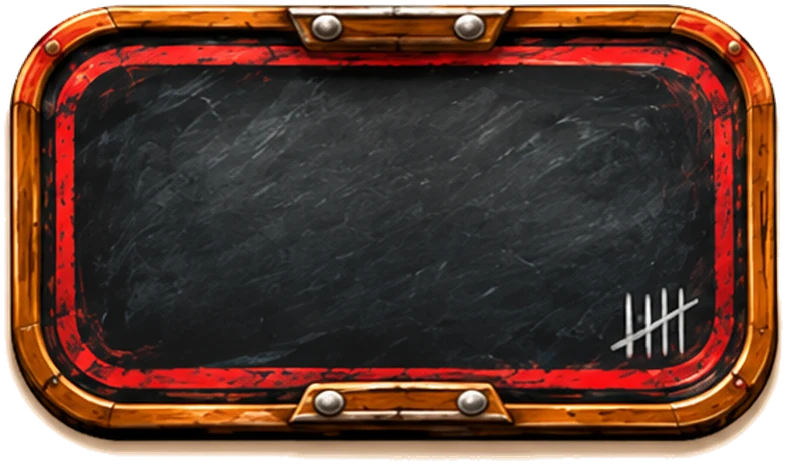
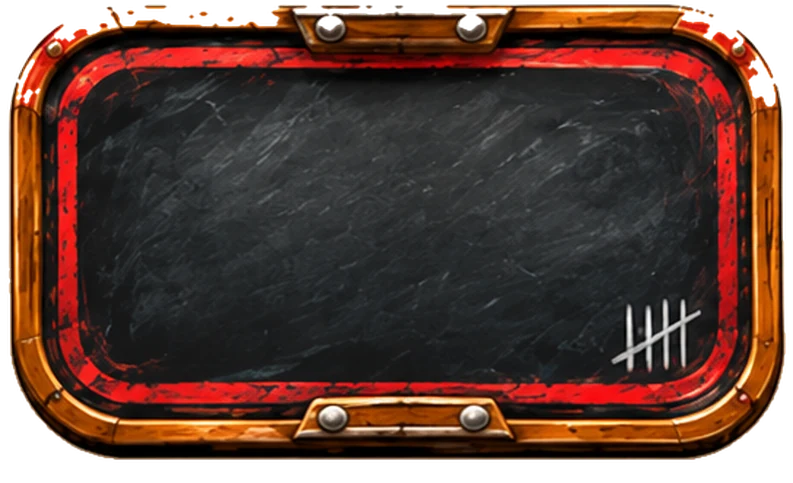
Craie : détourage serré (pilules découpées sur leur forme exacte, ombres portées dessinées retirées) (lf-353)
Claude-Session: https://claude.ai/code/session_01Agff8va3qxXu2Vw43sb54j

diff --git a/index.html b/index.html
@@ -3563,7 +3563,7 @@ html body #hist #hBody .h2last small{font:400 11px "Lbl",sans-serif;color:var(--
 /* ===== habillage « Craie » (Cricket 1 contre 1 ; clé interne « casino ») : images dessinées par Loubi, découpées depuis sa planche ; « Base » = rendu normal ===== */
 html body.skin-casino #game#game#game#game.p2 .sc.act{background:transparent!important;box-shadow:none!important}
 html body.skin-casino #game#game#game#game.p2 .sc.act::after{opacity:0!important}
-html body.skin-casino #game#game#game#game.p2 .sc.act::before{content:'';position:absolute;inset:-6.4px -7.8px -7.3px -6.9px;background:url(skins/craie/carte.webp) 0 0/100% 100% no-repeat;z-index:-1;pointer-events:none}
+html body.skin-casino #game#game#game#game.p2 .sc.act::before{content:'';position:absolute;inset:-6.9px -8.4px -12.8px -8.4px;background:url(skins/craie/carte.webp) 0 0/100% 100% no-repeat;z-index:-1;pointer-events:none}
 html body.skin-casino #game#game#game#game.p2 .sc .pill:not(.undo){background:transparent 0 0/100% 100% no-repeat!important;box-shadow:none!important;opacity:1!important;border-color:transparent!important;position:relative;isolation:isolate}
 html body.skin-casino #game#game#game#game.p2 .sc .pill:not(.undo)::before{content:'';position:absolute;inset:-3px -5px;background:inherit;background-size:100% 100%!important;z-index:-1;pointer-events:none}
 html body.skin-casino #game#game#game#game.p2 .sc:not(.act) .pill:not(.undo)::before{inset:-2px -3px}
@@ -3577,15 +3577,15 @@ html body.skin-casino #game#game#game#game.p2 .sc:not(.act) .pill.d{background-i
 html body.skin-casino #game#game#game#game.p2 .sc:not(.act) .pill.t{background-image:url(skins/craie/pa_t.webp)!important}
 html body.skin-casino #game#game#game#game.p2 .sc:not(.act) .pill.e,html body.skin-casino #game#game#game#game.p2 .sc:not(.act) .pill.z{background-image:url(skins/craie/pa_z.webp)!important}
 html body.skin-casino #game#game#game#game.p2 .rtrackb{border-color:transparent!important;background:none!important;z-index:0!important}
-html body.skin-casino #game#game#game#game.p2 .rtrackb::before{content:'';position:absolute;inset:-1.6px -2.4px -1.6px -3.2px;background:url(skins/craie/rail.webp) 0 0/100% 100% no-repeat;pointer-events:none}
+html body.skin-casino #game#game#game#game.p2 .rtrackb::before{content:'';position:absolute;inset:-2.2px -3.4px -4.7px -4.3px;background:url(skins/craie/rail.webp) 0 0/100% 100% no-repeat;pointer-events:none}
 html body.skin-casino #game#game#game#game.p2 #grid .num{background:transparent!important;box-shadow:none!important}
-html body.skin-casino #game#game#game#game.p2 #grid .num{border-style:solid!important;border-width:0!important;border-image:url(skins/craie/num.webp) 0 99 fill / 0 calc(var(--r,52.6px)*0.628) / calc(var(--r,52.6px)*0.128) calc(var(--r,52.6px)*0.163) stretch!important}   /* débord proportionnel à la hauteur de ligne (--r) */
+html body.skin-casino #game#game#game#game.p2 #grid .num{border-style:solid!important;border-width:0!important;border-image:url(skins/craie/num.webp) 0 106 fill / 0 calc(var(--r,52.6px)*0.673) / calc(var(--r,52.6px)*0.173) calc(var(--r,52.6px)*0.182) stretch!important}   /* débord proportionnel à la hauteur de ligne (--r) */
 html body.skin-casino #game#game#game#game.p2 #grid .num.dead{border-image-source:url(skins/craie/num_mort.webp)!important}
 html body.skin-casino #game#game#game#game.p2 #grid .num.bnc{border-image:none!important}
-html body.skin-casino #game#game#game#game.p2 footer::after{border-color:transparent!important;background:url(skins/craie/barre.webp) 0 0/100% 100% no-repeat!important;z-index:0!important;inset:-2.2px -3.9px -2.2px -3.9px!important}
+html body.skin-casino #game#game#game#game.p2 footer::after{border-color:transparent!important;background:url(skins/craie/barre.webp) 0 0/100% 100% no-repeat!important;z-index:0!important;inset:-2.3px -5.1px -6.0px -5.6px!important}
 html body.skin-casino #game#game#game#game.p2 .fthumb{background:transparent!important;box-shadow:none!important}
-html body.skin-casino #game#game#game#game.p2 .fthumb{border-style:solid!important;border-width:0!important;border-image:url(skins/craie/curseur.webp) 0 117 fill / 0 calc(var(--th,63.5px)*0.615) / calc(var(--th,63.5px)*0.115) calc(var(--th,63.5px)*.06) stretch!important}   /* curseur : bouts ronds jamais déformés, quelle que soit sa largeur (Double / Spew / Triple) */
-html body.skin-casino.m2 #game#game#game#game.p2 .fthumb{border-image-outset:calc(var(--th,63.5px)*0.115) 23px calc(var(--th,63.5px)*0.115) 0!important}   /* en Double, la boîte du curseur est 11 pt à gauche du mot « Double » : on recentre la bulle sur le mot */
+html body.skin-casino #game#game#game#game.p2 .fthumb{border-style:solid!important;border-width:0!important;border-image:url(skins/craie/curseur.webp) 0 125 fill / 0 calc(var(--th,63.5px)*0.660) / calc(var(--th,63.5px)*0.118) calc(var(--th,63.5px)*.06) stretch!important}   /* curseur : bouts ronds jamais déformés, quelle que soit sa largeur (Double / Spew / Triple) */
+html body.skin-casino.m2 #game#game#game#game.p2 .fthumb{border-image-outset:calc(var(--th,63.5px)*0.118) 23px calc(var(--th,63.5px)*0.118) 0!important}   /* en Double, la boîte du curseur est 11 pt à gauche du mot « Double » : on recentre la bulle sur le mot */
 html body.skin-casino #game#game#game#game.p2 .mw{position:relative;isolation:isolate}
 html body.skin-casino #game#game#game#game.p2 .mw .disc{opacity:0!important}
 html body.skin-casino #game#game#game#game.p2 .mw.k3::before{content:'';position:absolute;left:21%;top:21%;width:58%;height:58%;background:url(skins/craie/disque.webp) center/contain no-repeat;z-index:-1;animation:skpop .28s cubic-bezier(.3,1.6,.5,1)}
@@ -7114,7 +7114,7 @@ $('grid').addEventListener('click',e=>{if(!BARC)return;e.stopImmediatePropagatio
 /* ===== thème : 3 réglages de couleur (fond, contours et textes, bulles) ===== */
 /* thème unique (Bulle d'origine) : on efface les anciens réglages de couleurs et de style */
 if(S.th||S.style||S.pfT||S.pfN||S.pst){['th','style','pfT','pfN','pst'].forEach(k=>delete S[k]);try{store.set(K_S,S)}catch(e){}}
-const APPV='lf-352';   // à changer avec VERSION dans sw.js
+const APPV='lf-353';   // à changer avec VERSION dans sw.js
 ['--m-bg','--m-card','--m-line','--m-strongtx','--btx','--accent','--acc-rgb','--m-home','--ui-bg','--page','--m-cell','--ink','--m-ink','--m-strong','--mute','--m-sub'].forEach(k=>document.documentElement.style.removeProperty(k));
 try{colApply()}catch(e){}   // couleurs choisies : rétablies à chaque ouverture
 $('skinT').addEventListener('click',e=>{e.stopPropagation();haptic();SFX.ui();

diff --git a/sw.js b/sw.js
@@ -1,7 +1,7 @@
 /* Loubard Fléchard — hors ligne + mises à jour automatiques.
    Page : réseau d'abord (version la plus récente), cache si pas de réseau.
    Change VERSION à chaque mise à jour publiée. */
-const VERSION='lf-352';
+const VERSION='lf-353';
 const FILES=['./','index.html','sync.js','scenes.js','manifest.json','art/lexend.woff','art/ui-300.woff','art/ui-600.woff','art/ui-750.woff','art/ui-900.woff','art/fun.woff','art/funl.woff','art/funtxt.woff','art/lbl.woff','icon-180.png','icon-192.png','icon-512.png','skins/craie/accueil.webp','skins/craie/annuler.webp','skins/craie/barre.webp','skins/craie/carte.webp','skins/craie/carte_j2.webp','skins/craie/couronne.webp','skins/craie/curseur.webp','skins/craie/curseur_d.webp','skins/craie/curseur_j2.webp','skins/craie/curseur_t.webp','skins/craie/disque.webp','skins/craie/disque_j2.webp','skins/craie/num.webp','skins/craie/num_j2.webp','skins/craie/num_mort.webp','skins/craie/p_d.webp','skins/craie/p_e.webp','skins/craie/p_s.webp','skins/craie/p_t.webp','skins/craie/p_z.webp','skins/craie/pa.webp','skins/craie/pa_d.webp','skins/craie/pa_t.webp','skins/craie/pa_z.webp','skins/craie/rail.webp','skins/craie/trait1.webp','skins/craie/trait2.webp'];
 self.addEventListener('install',e=>{e.waitUntil(caches.open(VERSION)
   .then(c=>Promise.all(FILES.map(f=>fetch(f,{cache:'reload'}).then(r=>r.ok&&c.put(f,r)).catch(()=>{}))))
